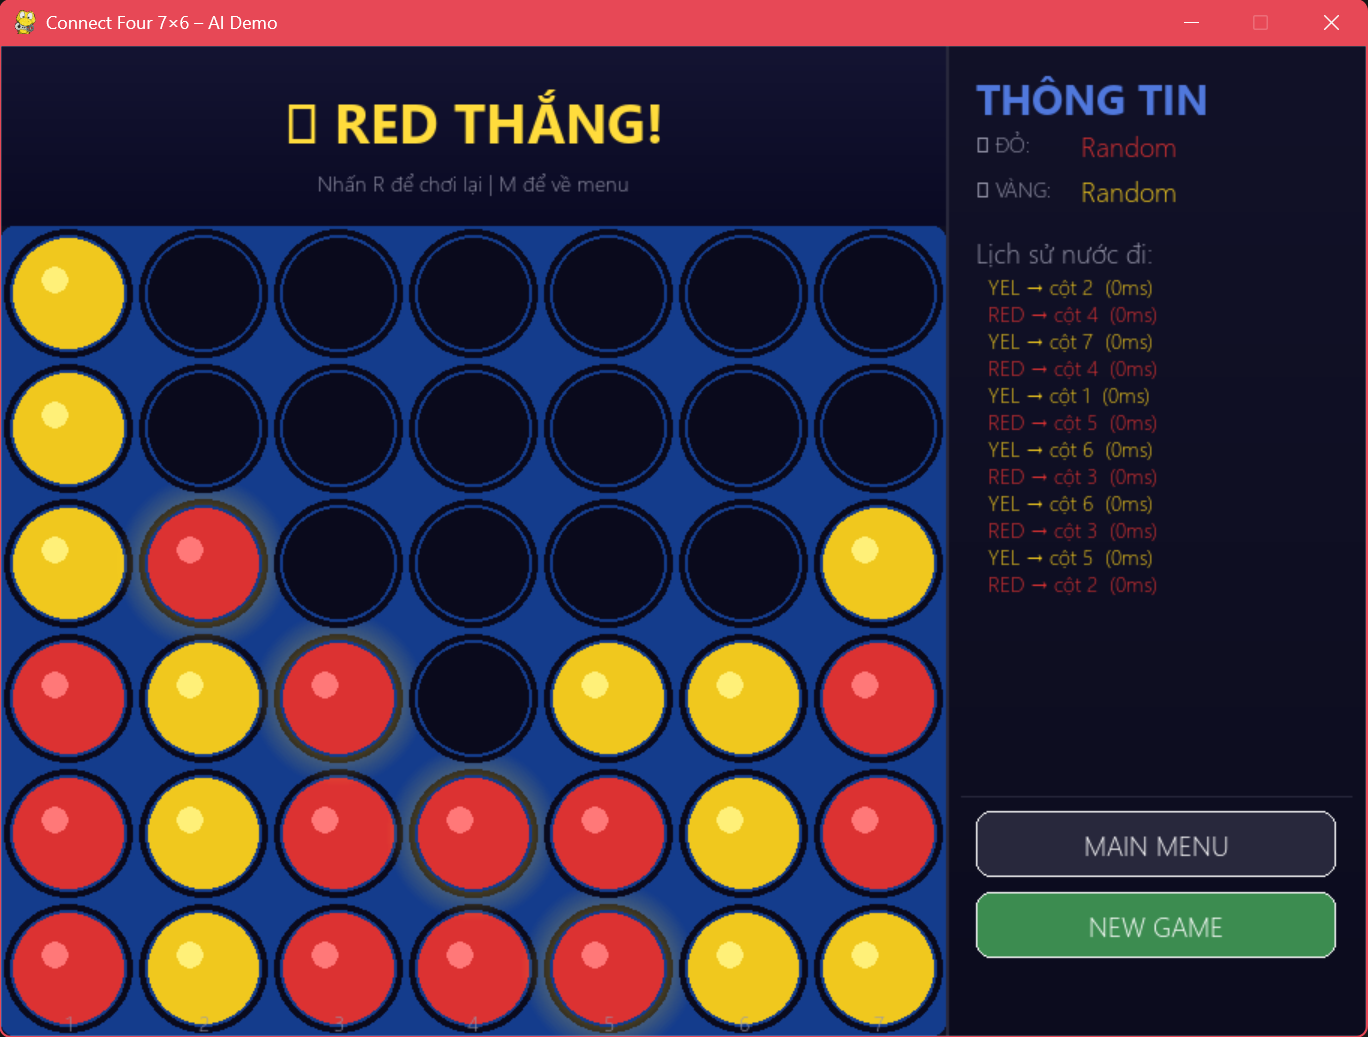
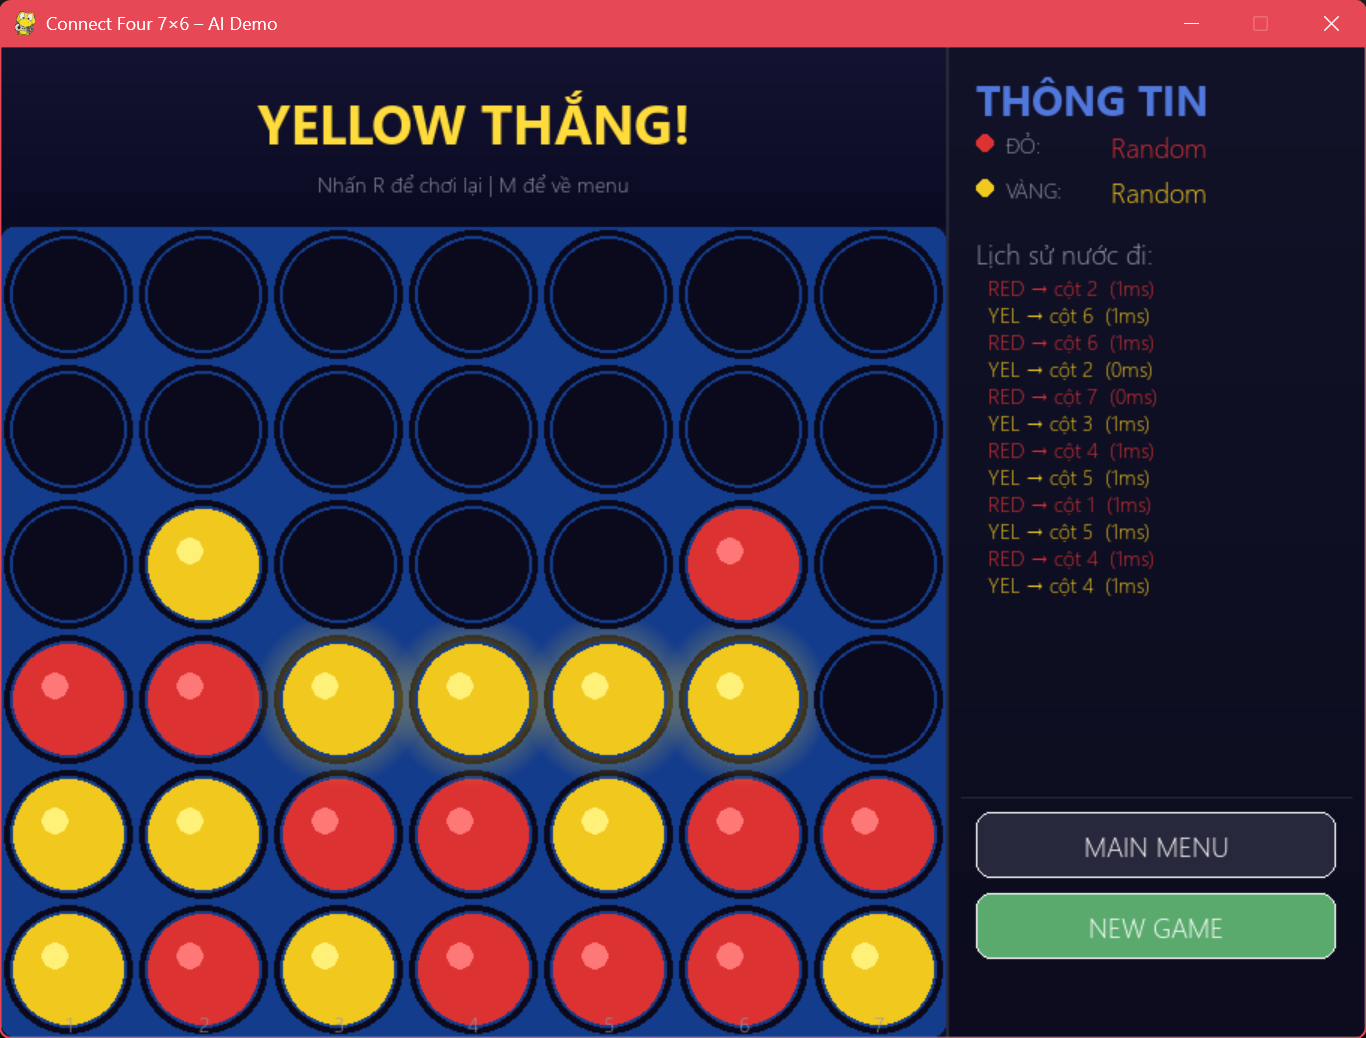
Update Readme

diff --git a/README.md b/README.md
@@ -25,10 +25,9 @@ Tiến độ và phân công: xem tab **Projects** và **Issues**. Nhật ký đ
 | 2 | Rule-based (Think1–3) | `agents/heuristic_agent.py` | Đã có |
 | 3 | Alpha-Beta | `agents/alphabeta_agent.py` | Đã có; cờ cắt tỉa, đếm nút, giới hạn thời gian |
 | 4 | MCTS (UCT) | `agents/mcts_agent.py` | Đã có; code đã có seed, ngân sách thời gian (`budget_ms`), `last_stats` |
-| 5 | Neural Network | `agents/nn_agent.py` | Đang thực hiện |
-| 6 | Reinforcement Learning | `training/train_rl.py` | Đang thực hiện |
+| 5 | Neural Network | agents/nn_agent.py | Đã có bản học có giám sát (weights/sl.pt, có test); chưa đo sức mạnh thi đấu
+| 6 | Reinforcement Learning | training/train_rl.py | Mới có bộ khung tự chơi, chưa huấn luyện, chưa có weights/rl.pt
 
-> Cập nhật cột "Trạng thái" mỗi khi hoàn thành một cấp. Chỉ ghi "Đã có" khi đã có test hoặc đã chạy thật.
 
 ## Cấu trúc thư mục
 
@@ -76,7 +75,7 @@ Bảng và hình sẽ nằm trong `results/` (chưa có) và được sinh lại
 
 ## Quy ước làm việc nhóm
 
-- Commit message của đề tài cuối kỳ: `Duan_GameAl/<Khu vực>: <việc đã làm>`, ví dụ `Duan_GameAl/Engine: thêm undo()`. (Bài tập nhóm khác trong môn dùng `Tuan??/Bai??/Làm gì`.)
+- Commit message của đề tài cuối kỳ: `Duan_GameAl/<Khu vực>: <việc đã làm>`, ví dụ `Duan_GameAl/Engine: thêm undo()`. (Bài tập nhóm khác trong môn dùng `Lab??/Làm gì`.)
 - Mỗi việc là một Issue; làm trên nhánh `feat/<tên>-<việc>`; gộp bằng Pull Request có người review.
 - Chi tiết: [docs/GIT_WORKFLOW.md](docs/GIT_WORKFLOW.md).
 
